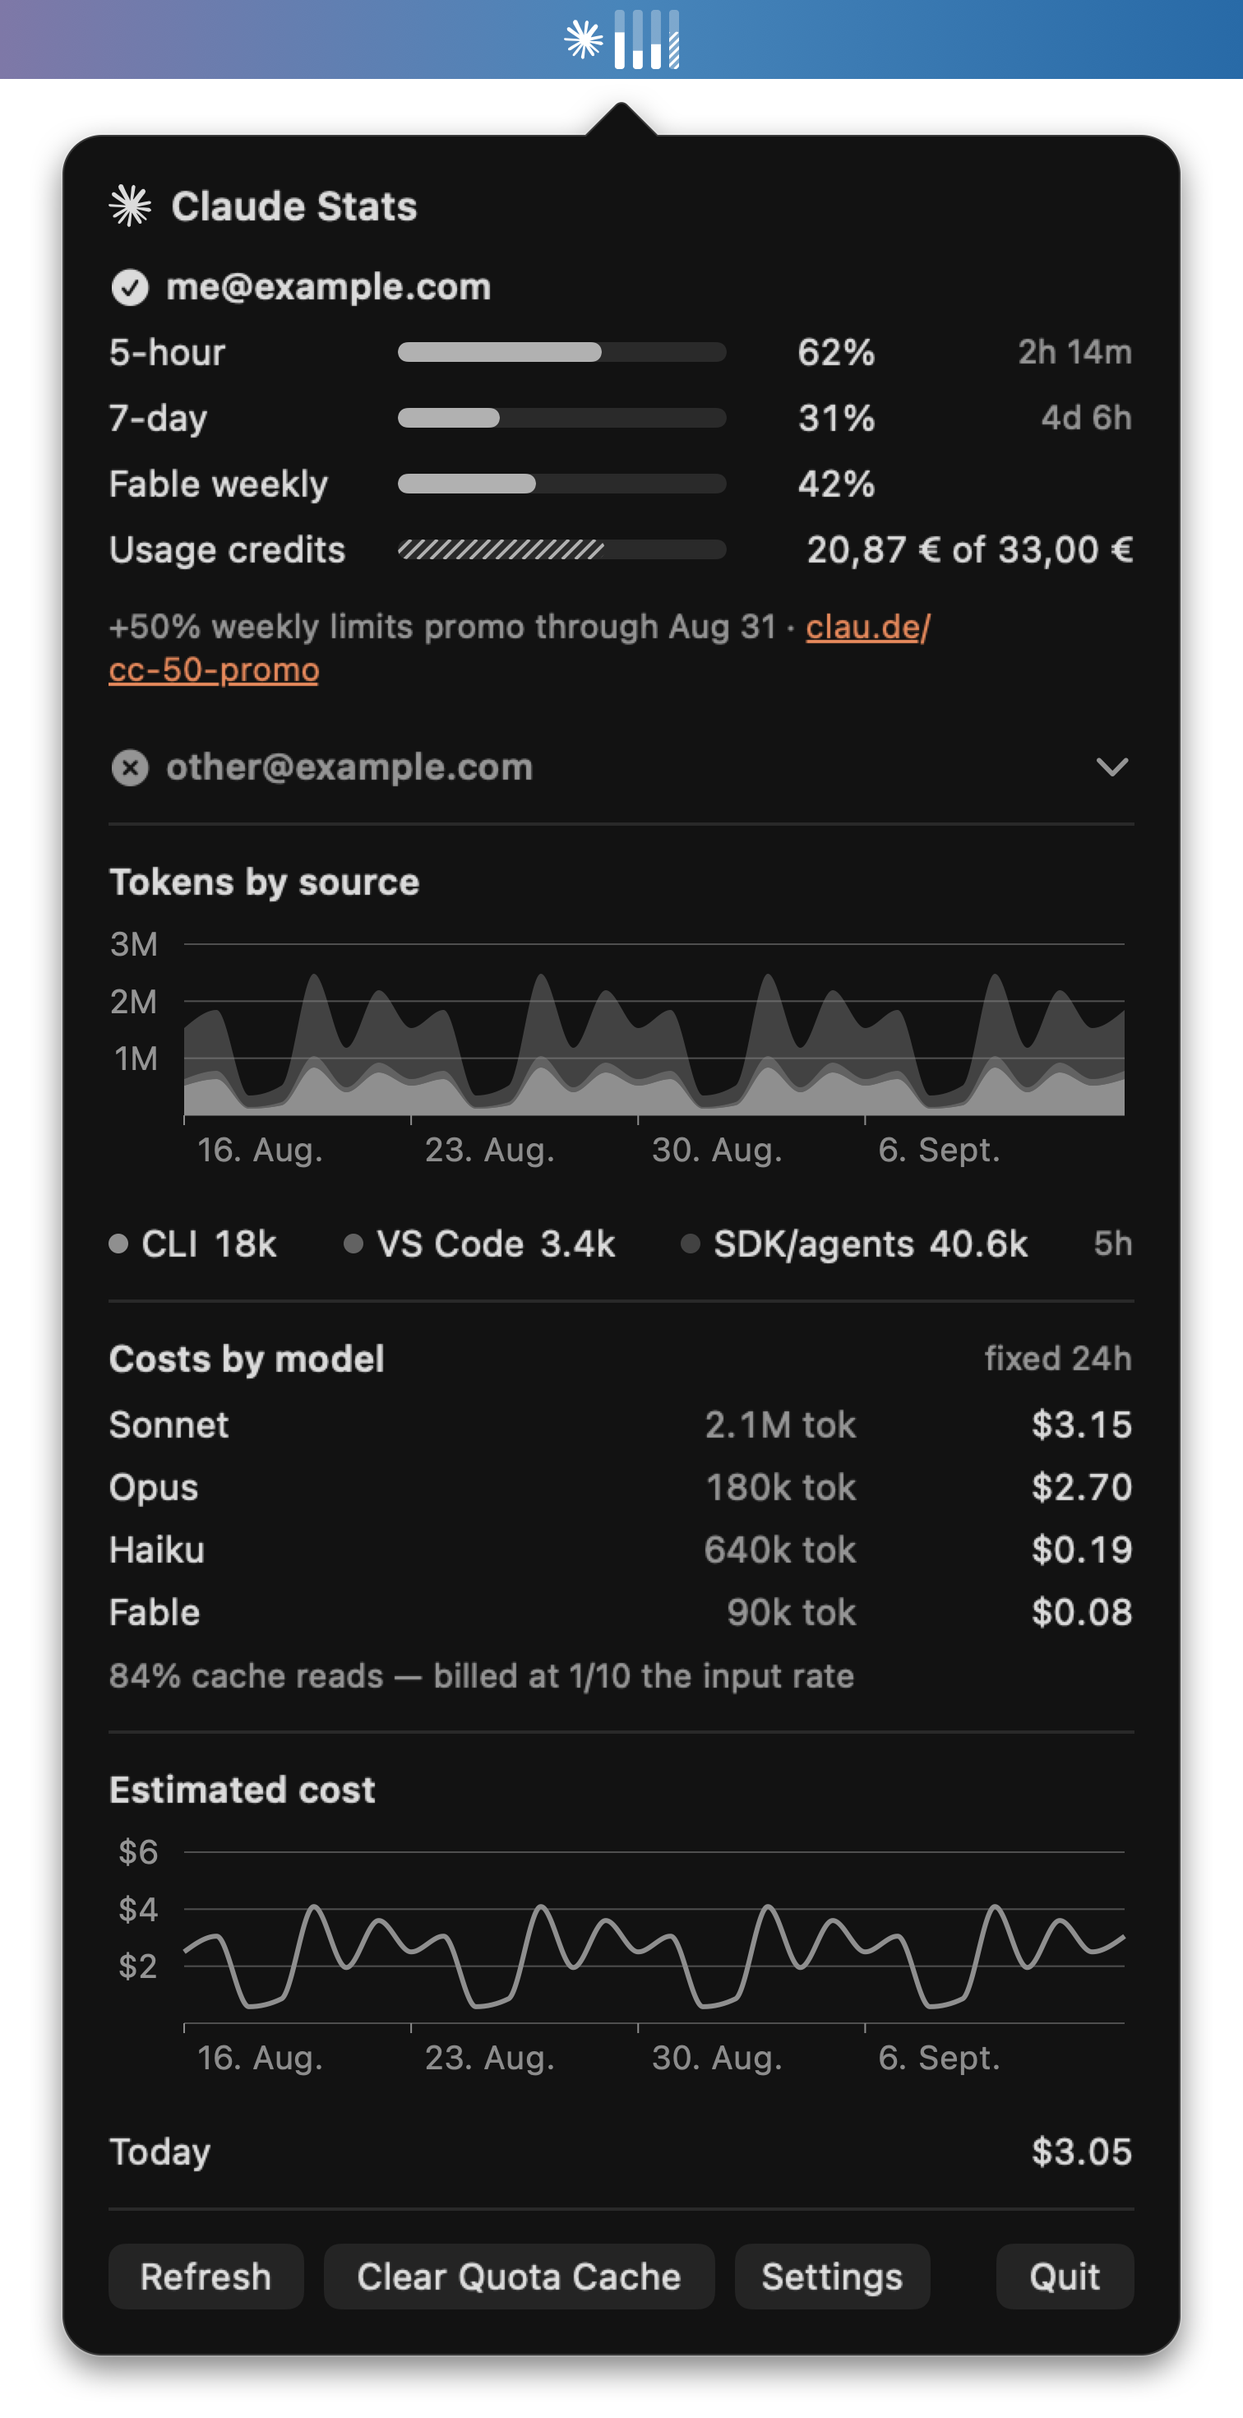
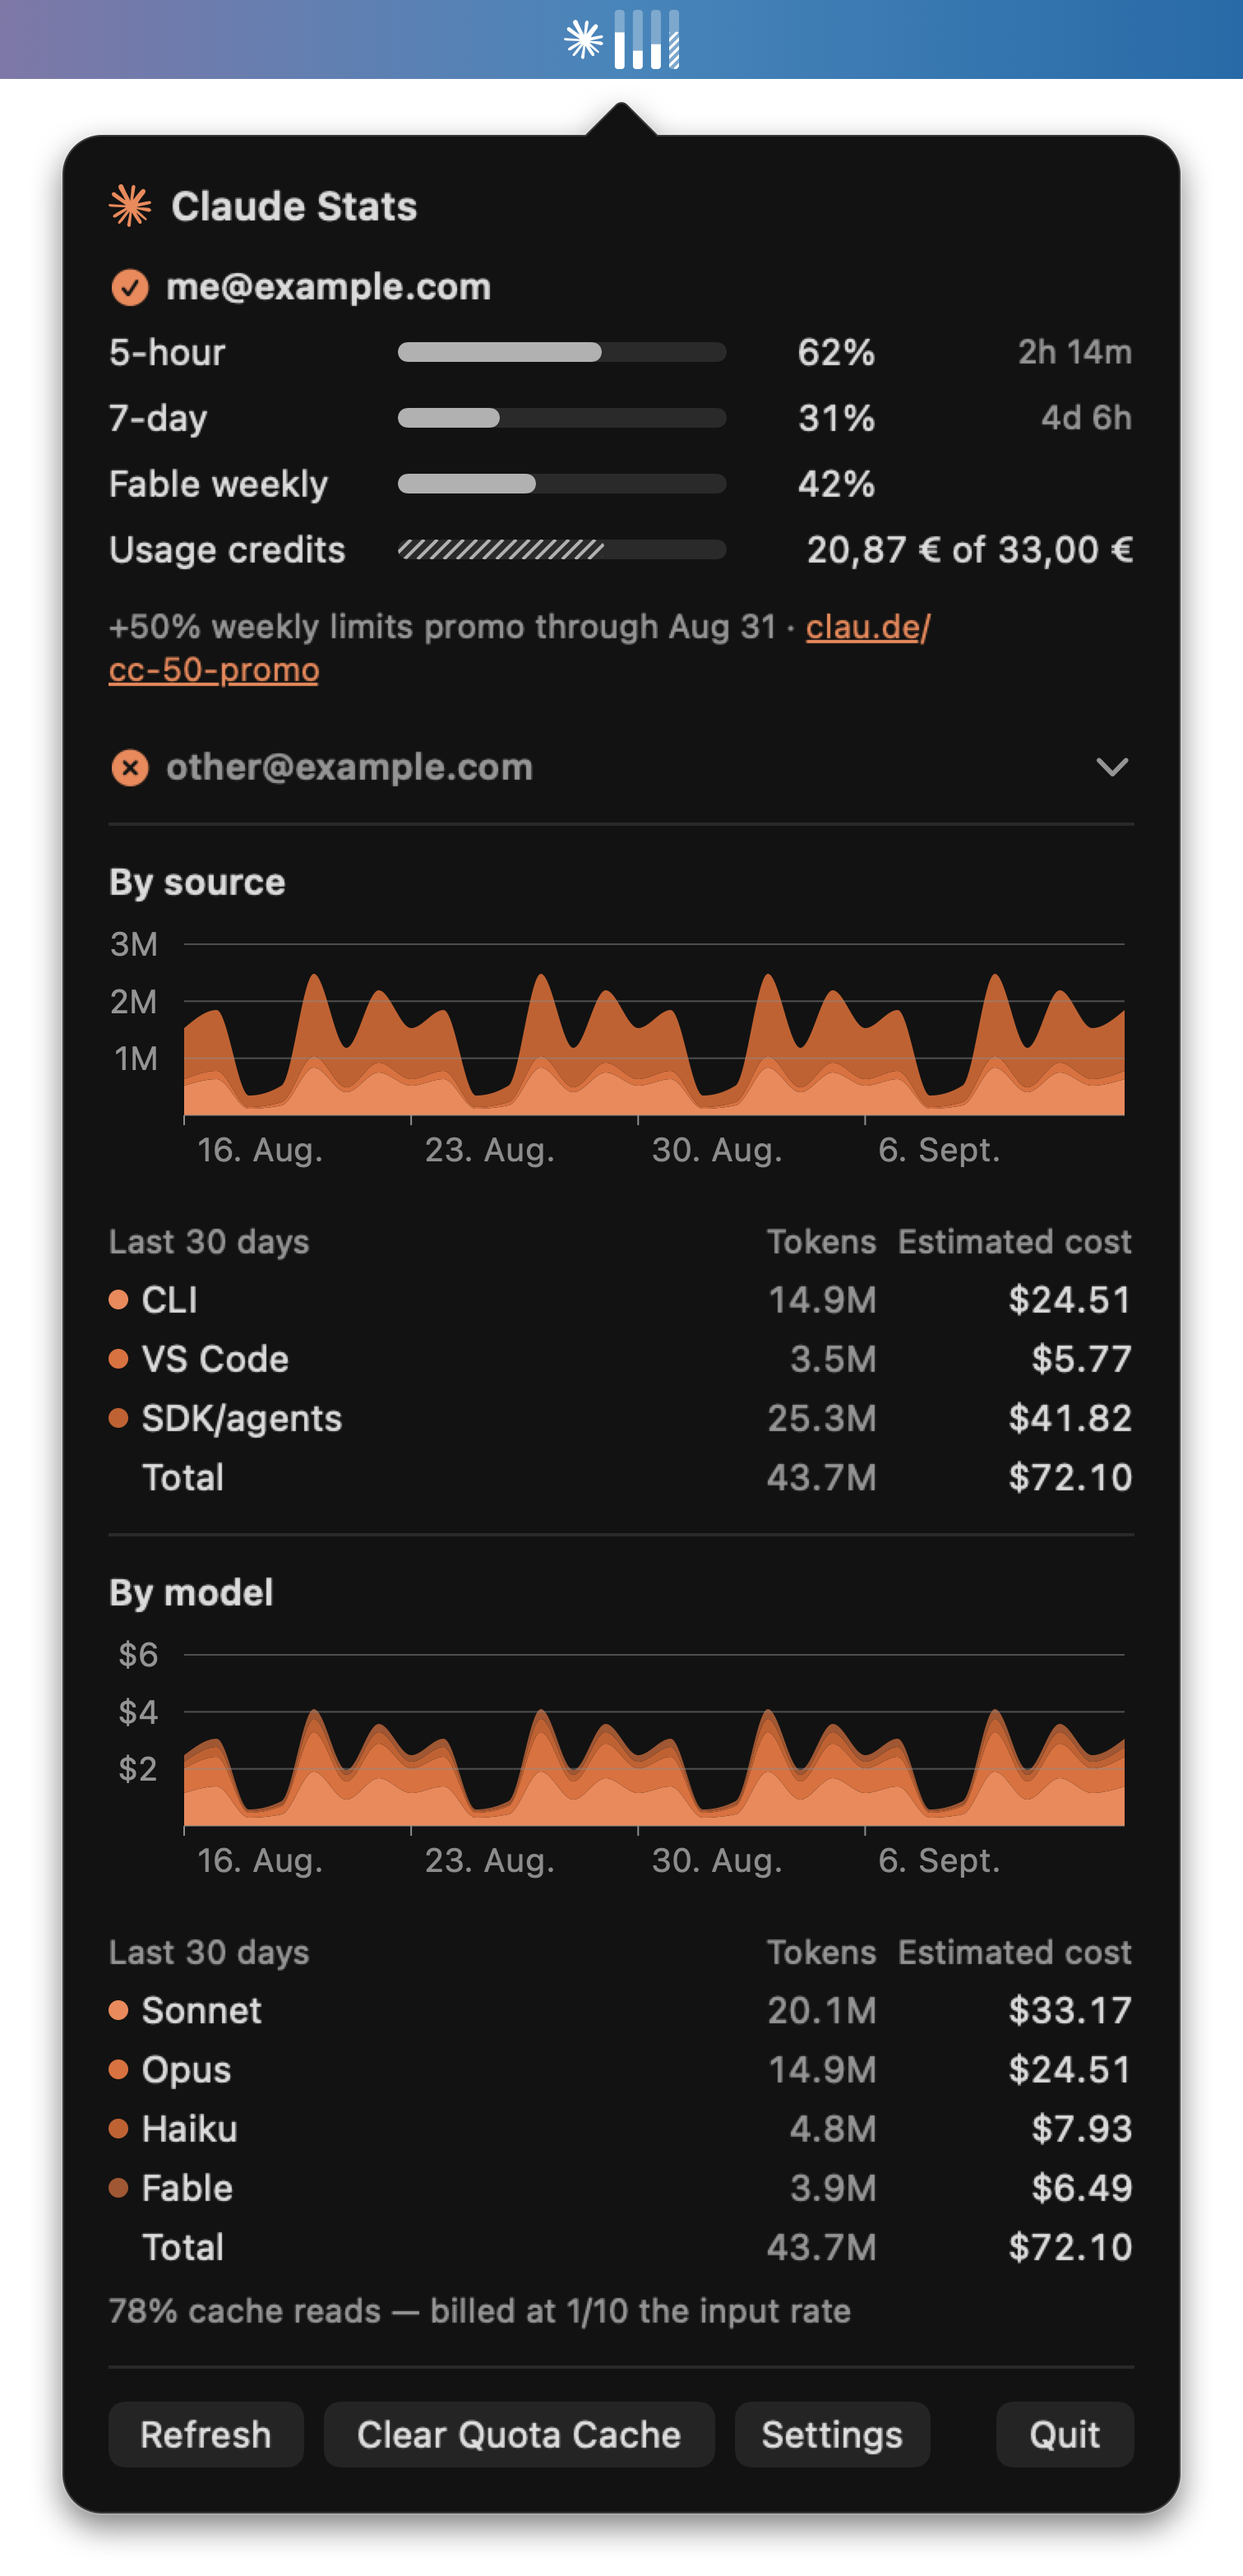
Re-render the README screenshots on the two-block popover
The committed PNGs still showed the 5h legend, the `fixed 24h` rows and
the cost line over a `Today` row — three sections that no longer exist.
Regenerated from the same pinned clock and the same
`AppModel.previewShowcase` fixture, so a second run leaves the tree clean
(checked).

The mock in AGENTS.md now carries the numbers the screenshot actually
renders, rather than illustrative ones: both `Total` rows read 43.7M and
$72.10, which is the one thing about the new layout a sketch can
demonstrate and prose can only assert.

diff --git a/AGENTS.md b/AGENTS.md
@@ -579,15 +579,16 @@ Usage credits ▨▨░░░░░░   €0.00 of €33.00
                                     Absent entirely on a one-account machine.
 
 By source
-4M ┤
+3M ┤
 2M ┤ ▁▂▅▃▂▆█▅▃▂▄▆█▃▂▄▅█▃▂▁▂▄▅█▆▃▂▁▃
- 0 ┼──┬───────┬───────┬───────┬────
+1M ┤
+   ┼──┬───────┬───────┬───────┬────
    16. Aug. 23. Aug. 30. Aug. 6. Sept.
 Last 30 days            Tokens  Estimated cost
-● CLI                     18.2M          $30.04
-● VS Code                     0           $0.00
-● SDK/agents              31.0M          $51.15
-  Total                   49.2M          $81.19
+● CLI                     14.9M          $24.51
+● VS Code                  3.5M           $5.77
+● SDK/agents              25.3M          $41.82
+  Total                   43.7M          $72.10
       hovered: the caption reads `6. Sept.` and every number in the table is
       that day's; the chart draws a rule and a dot per band edge
                                   ← the first of two **symmetric blocks**: a
@@ -719,16 +720,17 @@ Last 30 days            Tokens  Estimated cost
 
 By model
 $6 ┤
-$3 ┤ ▁▂▅▃▂▆█▅▃▂▄▆█▃▂▄▅█▃▂▁▂▄▅█▆▃▂▁▃
- 0 ┼──┬───────┬───────┬───────┬────
+$4 ┤ ▁▂▅▃▂▆█▅▃▂▄▆█▃▂▄▅█▃▂▁▂▄▅█▆▃▂▁▃
+$2 ┤
+   ┼──┬───────┬───────┬───────┬────
    16. Aug. 23. Aug. 30. Aug. 6. Sept.
 Last 30 days            Tokens  Estimated cost
-● Sonnet                  22.6M          $37.35
-● Opus                    16.7M          $27.60
-● Haiku                    5.4M           $8.93
-● Fable                    4.4M           $7.31
-  Total                   49.2M          $81.19
-81% cache reads — billed at 1/10 the input rate
+● Sonnet                  20.1M          $33.17
+● Opus                    14.9M          $24.51
+● Haiku                    4.8M           $7.93
+● Fable                    3.9M           $6.49
+  Total                   43.7M          $72.10
+78% cache reads — billed at 1/10 the input rate
                                   ← the second block: the same chart over the
                                     same days, stacking **estimated cost** per
                                     model family instead of tokens per source.
